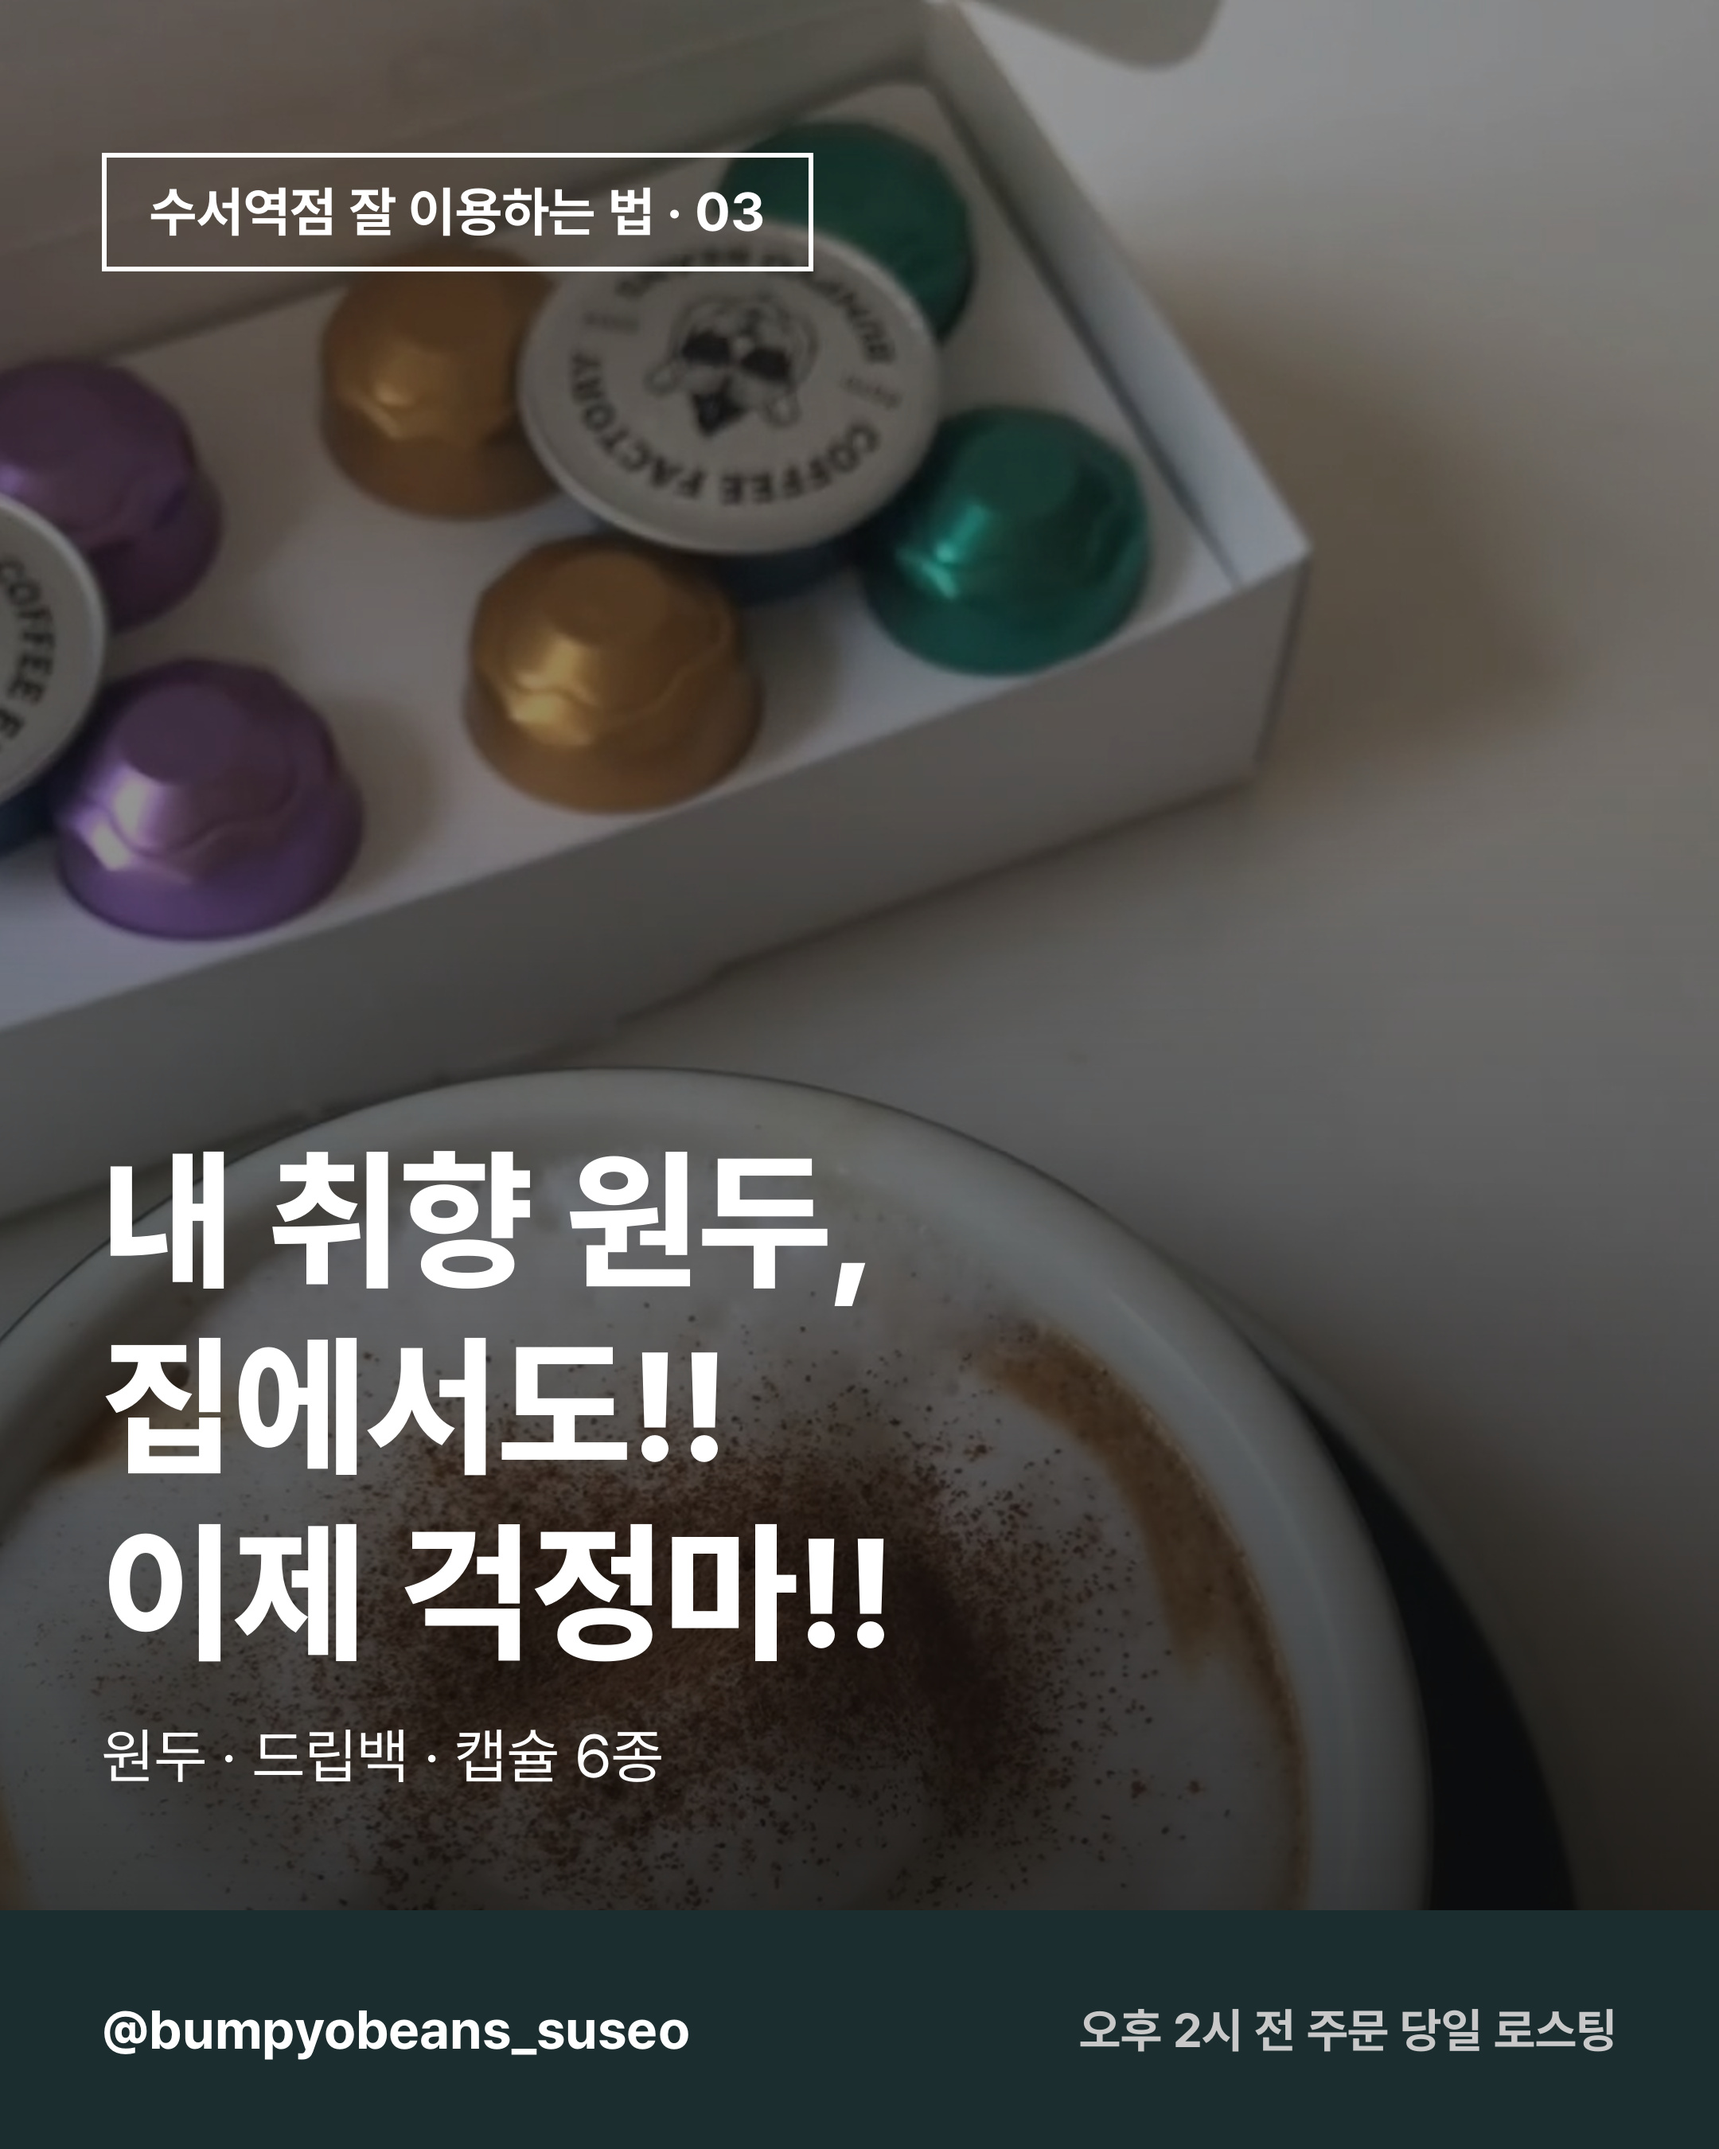
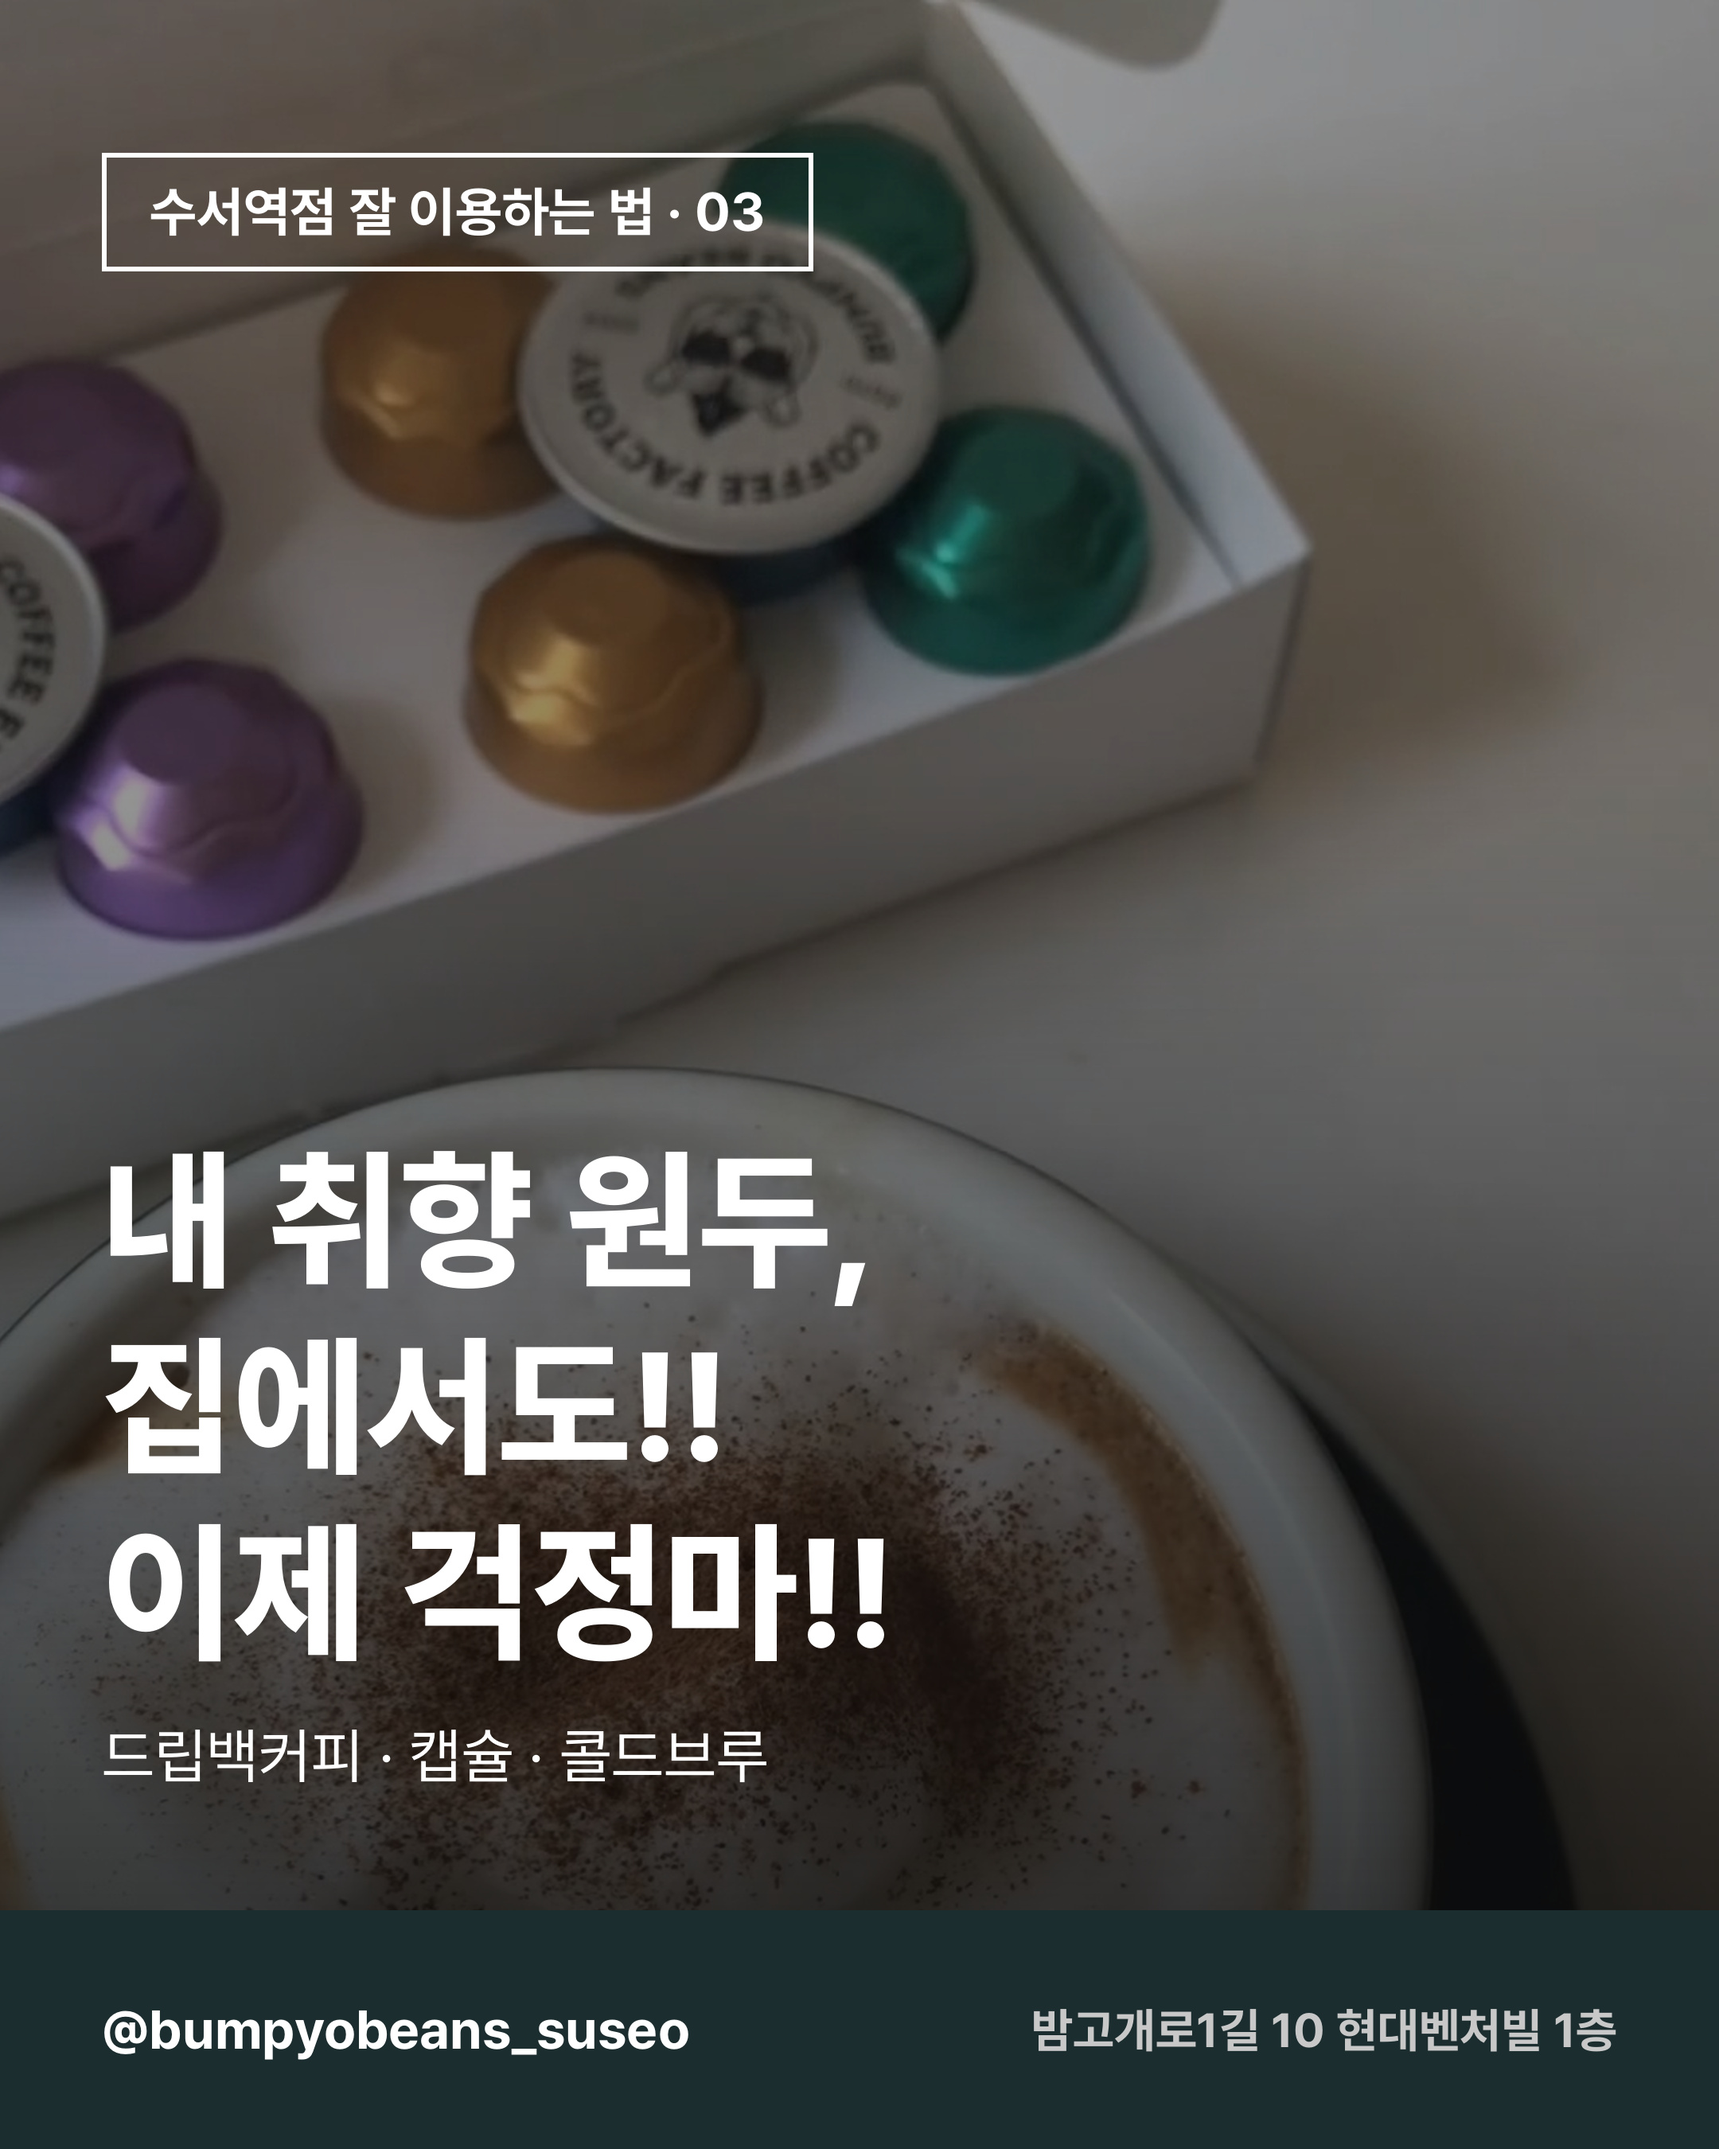
Pin 3: list drip bag, capsule, cold brew; drop roasting line
Claude-Session: https://claude.ai/code/session_015nkFFMbZZ1pWpapoeisJCN

Changed region(s): [[0.062, 0.8089, 0.4343, 0.84], [0.5894, 0.9333, 0.9306, 0.9644]]

diff --git a/carousel/make_suseo_pins.py b/carousel/make_suseo_pins.py
@@ -38,8 +38,8 @@ pins = [
              "궁극의 고소함, 범표라떼", HANDLE,
              "평일 07–20 · 주말 09–20", focus=0.5, underline=(0,)), False),
     (k.cover(PH / "13.jpg", TAG.format(3), ["내 취향 원두,", "집에서도!!", "이제 걱정마!!"],
-             "원두 · 드립백 · 캡슐 6종", HANDLE,
-             "오후 2시 전 주문 당일 로스팅", focus=0.5, underline=()), False),
+             "드립백커피 · 캡슐 · 콜드브루", HANDLE,
+             "밤고개로1길 10 현대벤처빌 1층", focus=0.5, underline=()), False),
 ]
 
 sticker = Image.open(UP / "490650c6-image.png").convert("RGBA")
